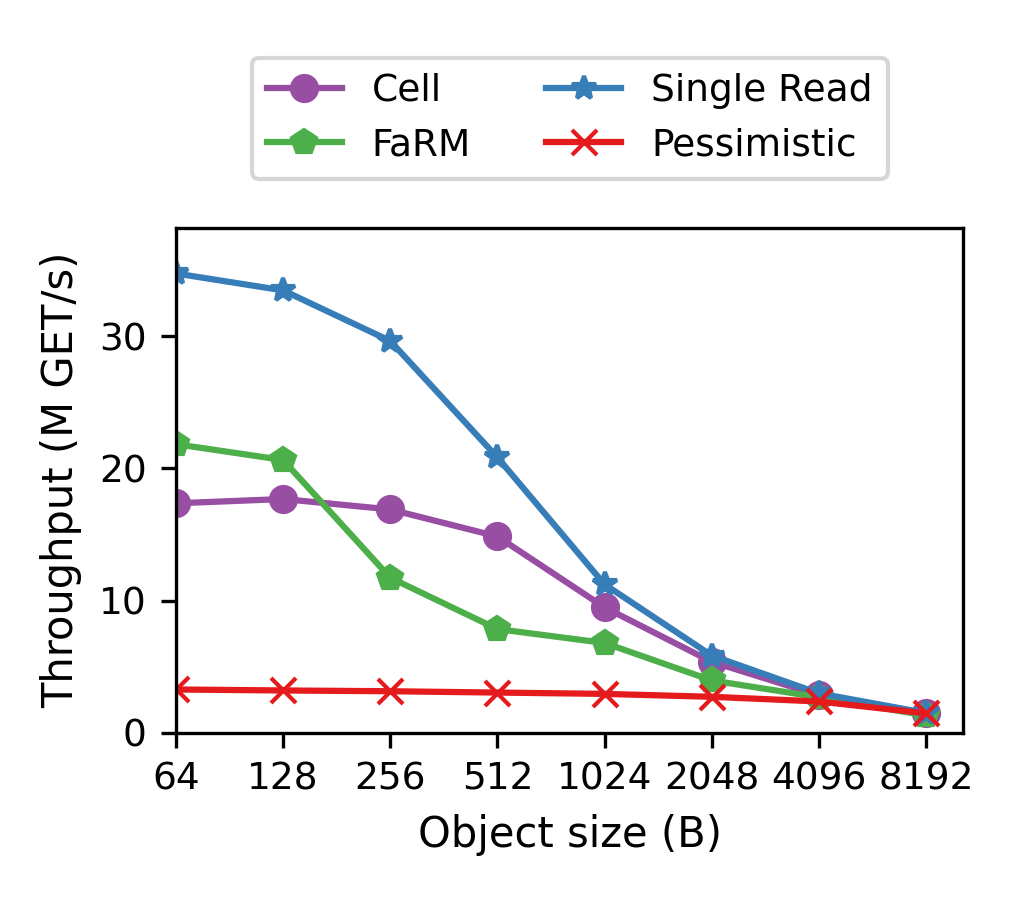
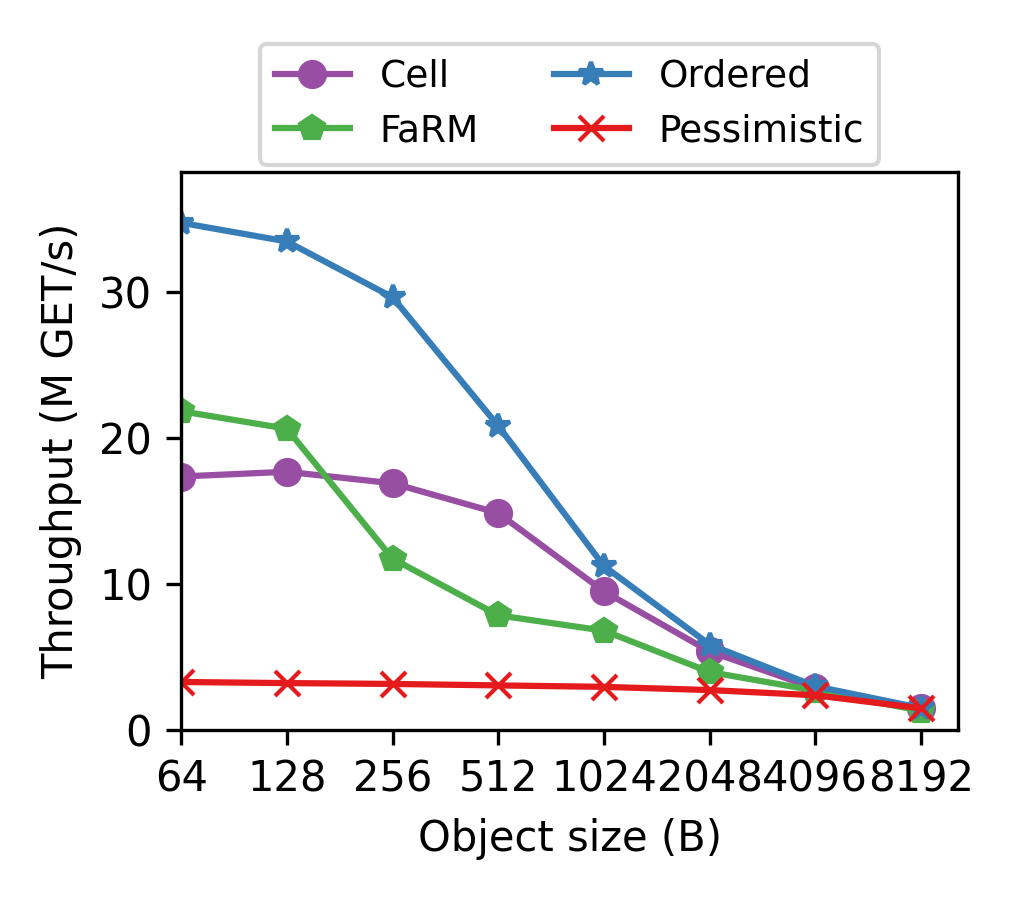
updated size vs tput plots

Changed region(s): [[0.0306, 0.0311, 0.9783, 0.9644], [0.214, 0.3111, 0.3057, 0.3422]]

diff --git a/scripts/plot.py b/scripts/plot.py
@@ -71,11 +71,11 @@ def plot_sizes_vs_tput(df, machine, threads, out_dir):
     y_max = 0
     for name in bench_names:
         df_filtered = df[(df['bench'] == name) & (df['threads'] == threads)]
-        df_filtered.plot(kind='line', ax=ax, x=X_COLUMN_SIZES, y=Y_COLUMN, marker=MARKERS[name], color=COLORS[name], label= LABELS[name])
+        df_filtered.plot(kind='line', ax=ax, x=X_COLUMN_SIZES, y=Y_COLUMN, marker=MARKERS[name], color=COLORS[name], label= LABELS[name], fontsize=MEDIUM_SIZE)
         y_max = max(y_max, df_filtered[Y_COLUMN].max())
 
-    plt.xlabel(X_LBL_SIZES)
-    plt.ylabel(Y_LBL)
+    plt.xlabel(X_LBL_SIZES, fontsize=MEDIUM_SIZE)
+    plt.ylabel(Y_LBL, fontsize=MEDIUM_SIZE)
     # plt.title('Sizes vs Throughput for {} with {} threads'.format(machine, threads))
 
 
@@ -88,7 +88,7 @@ def plot_sizes_vs_tput(df, machine, threads, out_dir):
     ax.set_ylim(bottom=0, top=y_lim)
     ax.set_xlim(left=64)
 
-    plt.legend(loc='lower center', bbox_to_anchor=(0.5, 1.06), ncol=len(LABELS.keys())/2)
+    plt.legend(loc='lower center', bbox_to_anchor=(0.5, 0.98), ncol=len(LABELS.keys())/2)
     fig = plt.gcf()
     fig.tight_layout()
     for file in file_paths:
